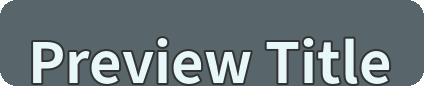
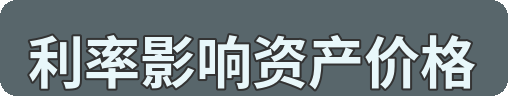
feat: upgrade expression engine to v1.5

diff --git a/modules/content_constraints.py b/modules/content_constraints.py
@@ -7,6 +7,18 @@ from typing import Dict
 CHINESE_PUNCTUATION = "，。！？；：、“”‘’（）《》【】—…·,.!?;:'\"()[]{}<>/\\|@#$%^&*_+=~`"
 PUNCT_PATTERN = f"[{re.escape(CHINESE_PUNCTUATION)}]"
 
+TITLE_MAX_CHARS = 16
+TITLE_SOFT_MIN_CHARS = 6
+TITLE_NATURAL_MIN_CHARS = 10
+
+# 用于寻找更自然标题边界的弱规则词
+TITLE_BOUNDARY_TOKENS = [
+    "影响", "决定", "改变", "推动", "压制", "重塑",
+    "如何", "为什么", "什么", "是否",
+    "的", "是", "让", "把", "对", "与", "和", "及", "在", "中", "下",
+]
+TITLE_BAD_TAILS = ["的", "是", "在", "和", "与", "及", "对", "把", "让", "中", "下"]
+
 
 def remove_punctuation(text: str) -> str:
     if not text:
@@ -34,21 +46,82 @@ def clamp_chinese_phrase(text: str, max_chars: int) -> str:
     return text[:max_chars]
 
 
-def clamp_title_text(text: str, max_chars: int = 16) -> str:
+def _pick_better_title_cut(text: str, max_chars: int = TITLE_MAX_CHARS) -> str:
     """
-    Title 规则：
-    - 去标点
-    - 最多16字
-    - 当前先只做纯文本长度约束
+    尝试找到比“硬截断”更自然的标题切分点。
+    规则非常保守：
+    1. 先在 max_chars 范围内寻找边界词
+    2. 优先取较靠后的自然边界
+    3. 太短则放弃，回退硬截断
     """
-    text = remove_punctuation(text)
-    text = text.replace(" ", "")
     if len(text) <= max_chars:
         return text
+
+    search_text = text[:max_chars + 1]
+    best_cut = -1
+
+    for token in TITLE_BOUNDARY_TOKENS:
+        start = 0
+        while True:
+            idx = search_text.find(token, start)
+            if idx == -1:
+                break
+
+            candidate_cut = idx + len(token)
+
+            if TITLE_SOFT_MIN_CHARS <= candidate_cut <= max_chars:
+                if candidate_cut > best_cut:
+                    best_cut = candidate_cut
+
+            start = idx + 1
+
+    if best_cut != -1:
+        return search_text[:best_cut]
+
     return text[:max_chars]
 
 
-def clamp_english_phrase_by_words(text: str, max_chars: int = 18) -> str:
+def _cleanup_title_tail(text: str, min_chars: int = TITLE_SOFT_MIN_CHARS) -> str:
+    """
+    清理不适合作为标题结尾的虚词，避免标题收尾发虚。
+    """
+    while len(text) > min_chars and any(text.endswith(tail) for tail in TITLE_BAD_TAILS):
+        text = text[:-1]
+    return text
+
+
+def clamp_title_text(text: str, max_chars: int = TITLE_MAX_CHARS) -> str:
+    """
+    Title 规则：
+    - 去标点
+    - 去空格
+    - 优先自然边界截断
+    - 最终不超过16字
+    """
+    text = remove_punctuation(text)
+    text = text.replace(" ", "")
+
+    if not text:
+        return ""
+
+    hard_candidate = _cleanup_title_tail(text[:max_chars], min_chars=TITLE_SOFT_MIN_CHARS)
+
+    if len(text) <= max_chars:
+        return hard_candidate
+
+    candidate = _pick_better_title_cut(text, max_chars=max_chars)
+    candidate = _cleanup_title_tail(candidate, min_chars=TITLE_SOFT_MIN_CHARS)
+
+    if candidate and len(candidate) >= TITLE_NATURAL_MIN_CHARS:
+        return candidate[:max_chars]
+
+    if hard_candidate:
+        return hard_candidate[:max_chars]
+
+    return text[:max_chars]
+
+
+def clamp_english_phrase_by_words(text: str, max_chars: int = 16) -> str:
     """
     英文规则：
     - 去标点
@@ -86,7 +159,7 @@ def constrain_title_text(text: str) -> str:
     """
     Title 最终规范化。
     """
-    return clamp_title_text(text, max_chars=16)
+    return clamp_title_text(text, max_chars=TITLE_MAX_CHARS)
 
 
 def constrain_highlight_zh(text: str) -> str:
@@ -105,7 +178,7 @@ def constrain_highlight_en(text: str) -> str:
     - 按词截断
     - 不拆词
     """
-    return clamp_english_phrase_by_words(text, max_chars=18)
+    return clamp_english_phrase_by_words(text, max_chars=16)
 
 
 def apply_content_constraints(

diff --git a/scripts/test_title_regression.py b/scripts/test_title_regression.py
@@ -1,0 +1,43 @@
+from pathlib import Path
+import sys
+
+
+PROJECT_ROOT = Path(__file__).resolve().parent.parent
+if str(PROJECT_ROOT) not in sys.path:
+    sys.path.insert(0, str(PROJECT_ROOT))
+
+from modules.preview_renderer import generate_preview_frame
+
+
+titles = [
+    "利率下降会如何影响资产价格走势",
+    "为什么贴现率变化会改变估值模型",
+    "通胀预期如何传导到利率市场",
+    "资金成本上升对企业利润的影响",
+    "降息为什么不一定立刻利好股市",
+    "美债收益率变化如何影响全球资产",
+    "资产价格为什么会对利率如此敏感",
+    "信用扩张如何推动风险资产上涨",
+    "市场为什么总在流动性拐点重估资产",
+    "汇率变化如何影响出口企业利润",
+]
+
+
+print("=== TITLE REGRESSION TEST ===")
+
+for i, title in enumerate(titles, start=1):
+    path = f"output/title_test_{i}.png"
+
+    generate_preview_frame(
+        style_name="creator_clean",
+        output_path=path,
+        pipeline_input={
+            "title": title,
+            "highlight": {
+                "zh": "利率变化",
+                "en": "Interest rate",
+            },
+        },
+    )
+
+    print(f"[OK] {i}: {title}")

diff --git a/scripts/test_highlight_constraints.py b/scripts/test_highlight_constraints.py
@@ -1,0 +1,36 @@
+from pathlib import Path
+import sys
+
+
+PROJECT_ROOT = Path(__file__).resolve().parent.parent
+if str(PROJECT_ROOT) not in sys.path:
+    sys.path.insert(0, str(PROJECT_ROOT))
+
+from modules.preview_renderer import generate_preview_frame
+
+
+cases = [
+    "利率是资金的价格资产价格会随贴现率变化",
+    "这是一个非常长的高亮句子应该被截断",
+    "短语测试",
+]
+
+
+print("=== HIGHLIGHT TEST ===")
+
+for i, text in enumerate(cases, start=1):
+    path = f"output/highlight_test_{i}.png"
+
+    generate_preview_frame(
+        style_name="creator_clean",
+        output_path=path,
+        pipeline_input={
+            "title": "测试标题",
+            "highlight": {
+                "zh": text,
+                "en": "This is a very long highlight sentence for testing",
+            },
+        },
+    )
+
+    print(f"[OK] {i}")

diff --git a/scripts/test_style_preview.py b/scripts/test_style_preview.py
@@ -1,0 +1,38 @@
+from pathlib import Path
+import sys
+
+
+PROJECT_ROOT = Path(__file__).resolve().parent.parent
+if str(PROJECT_ROOT) not in sys.path:
+    sys.path.insert(0, str(PROJECT_ROOT))
+
+from modules.preview_renderer import generate_preview_frame
+
+
+styles = [
+    "creator_clean",
+    "personal_ip",
+    "product_focus",
+    "life_story",
+    "ai_control_lab",
+]
+
+
+print("=== STYLE TEST ===")
+
+for style in styles:
+    path = f"output/style_{style}.png"
+
+    generate_preview_frame(
+        style_name=style,
+        output_path=path,
+        pipeline_input={
+            "title": "利率影响资产价格",
+            "highlight": {
+                "zh": "利率变化",
+                "en": "Interest rate",
+            },
+        },
+    )
+
+    print(f"[OK] {style}")

diff --git a/scripts/test_pipeline_input.py b/scripts/test_pipeline_input.py
@@ -1,0 +1,20 @@
+from pathlib import Path
+import sys
+
+
+PROJECT_ROOT = Path(__file__).resolve().parent.parent
+if str(PROJECT_ROOT) not in sys.path:
+    sys.path.insert(0, str(PROJECT_ROOT))
+
+from modules.preview_renderer import generate_preview_frame
+
+
+print("=== PIPELINE INPUT TEST ===")
+
+generate_preview_frame(
+    style_name="creator_clean",
+    output_path="output/pipeline_test.png",
+    pipeline_input={
+        "content": "利率是资金的价格资产价格会随贴现率变化",
+    },
+)

diff --git a/scripts/clean_output.py b/scripts/clean_output.py
@@ -1,0 +1,10 @@
+from pathlib import Path
+
+
+output_dir = Path("output")
+files = list(output_dir.glob("*.png"))
+
+for file_path in files:
+    file_path.unlink()
+
+print(f"Deleted {len(files)} files")
